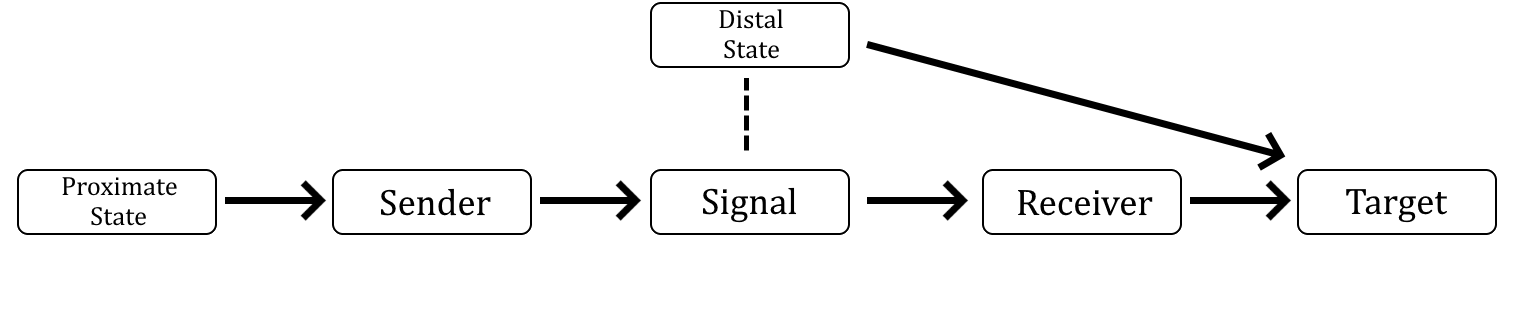
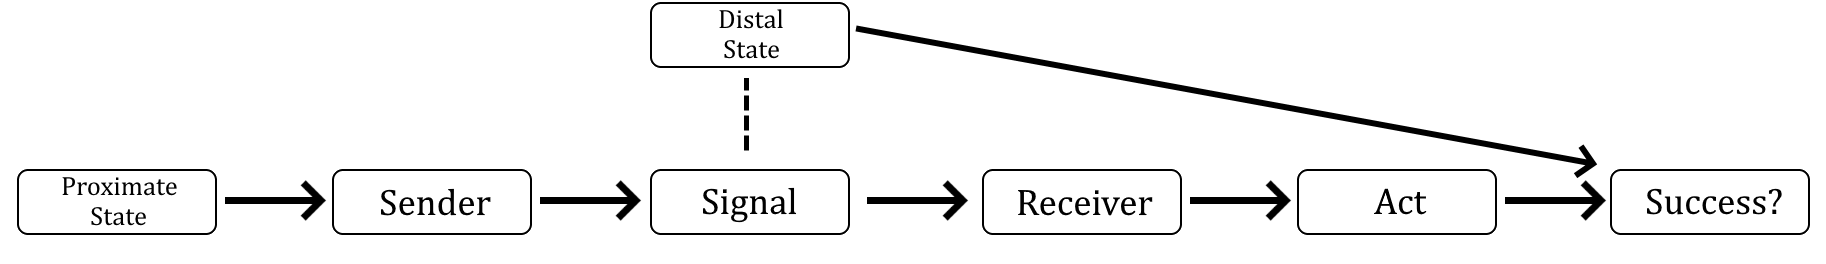
Tweaks from PDF draft notes. Closes #17, #18.

diff --git a/tex_agnostic.tex b/tex_agnostic.tex
@@ -113,6 +113,7 @@ Philosophy has understood information theory as a mostly definitional effort: fo
 
 \noindent Let me lay out my suspicions clearly: I suspect that philosophers move from \ami{} to the intermediate claim \ait{} by employing the term `Shannon information' to mean both `mutual information' and `all of the tools and concepts available to information theory'.
 I further suspect that philosophers move from \ait{} to \act{} by treating information theory and communication theory as identical.
+Take these moves in turn.
 
 `Shannon information' is given diverse definitions in philosophy (table \ref{tab:shannon}).
 By invoking it, demonstrably true claims about mutual information can be interpreted as unsupported claims about information theory as a whole.
@@ -142,15 +143,15 @@ I want to mention three popular lines of thought in order to distinguish them fr
     \item Information theory cannot distinguish signals and cues, therefore informational measures are not the right way to naturalise semantic content \citep{lean2014shannon}; \citep[$\S$4]{hutto2013radicalizing} 
 \end{itemize}
 
-\noindent These three views share a premise: that the only tools available to information theory are mutual information and related measures.
-I reject the assumption that the only resources offered by Shannon's formal work to naturalist theories of representation are measures of correlational information.\footnote{\citet[$\S$5]{shea2018representation} discusses structural correspondence as a non-correlational source of semantic content, and suggests other possible sources \citep[p. 76 n. 1]{shea2018representation}. But he appears to share the premise that, among the tools devised by Shannon, measures of correlation are all that is relevant for naturalist representation.}
-The view I proposed in the section on Shannon's Warning implies:
+\noindent These three views share a premise: that the only way Shannon's formal work could contribute to naturalistic representation is via measures of correlation.\footnote{\citet[$\S$5]{shea2018representation} discusses structural correspondence as a non-correlational source of semantic content, and suggests other possible sources \citep[p. 76 n. 1]{shea2018representation}. But he appears to share the premise that, among the tools devised by Shannon, measures of correlation are all that is relevant for naturalist representation.}
+I reject this assumption.
+The view I propose in the section on Shannon's Warning implies:
 
 \begin{itemize}
     \item Regardless whether information theory can distinguish signals and cues, the semantic content of a signal is not defined in terms of measures of correlation.
 \end{itemize}
 
-\noindent This contradicts orthodoxy, but my point is that this particular orthodoxy was never well-motivated.
+\noindent This contradicts orthodoxy, but my point is that this particular orthodoxy, though tempting, is wrong-headed.
 
 Before moving on, I recognise that these four projects would be consistent with each other if only proponents agreed they meant different things by `semantic content'.
 The Skyrms-Isaac project is to assign to vehicles a formal object capturing their correlational relationships.
@@ -246,13 +247,13 @@ Of course, nothing prevents us applying Kelly's theorem to signals too.
 My claim is not that theorems about cues do not apply to signals, but that theorems about signals do not apply to cues.
 There is an asymmetry in the definition of signals and cues, and the two kinds of theorem are asymmetric in a way that reflects that.
 Any vehicle can be treated as a cue simply by failing to specify whether or not it was designed for communicative use.
-That is what Kelly's theorem does, in the guise of keeping the mutual information fixed and asking how the receiver can make use of it.
+That is what Kelly's theorem does, in the guise of keeping mutual information fixed and asking how the receiver can make use of it.
 (In fact Kelly's prose implies that the vehicle in question is a signal; close inspection reveals the theorem does not require it to be one.)
 The second and third theorems by contrast require that their vehicles be signals, because they assure a level of functional performance that is only available when the sender tunes the vehicle's production to the features of the channel.
 By definition, the second and third theorems cannot be applied to cues.
 
 Furthermore, these points are reflected in the mathematical formalism of each theorem.
-The second theorem discusses maximising the transmission rate of a channel by changing the encoding scheme thereby changing the distribution of input symbols.
+The second theorem discusses maximising the transmission rate of a channel by changing the encoding scheme, thereby changing the distribution of input symbols.
 This can be written formally as $\max_{p(x)}I(X;Y)$.
 In this set-up, $X$ and $Y$ are causally connected at either end of a signalling channel.
 In contrast, Kelly's theorem keeps $I(X;Y)$ fixed and assumes nothing about the causal connection between $X$ and $Y$.
@@ -275,7 +276,7 @@ But the sceptic knows that $\max_{p(x)}I(X;Y)$ is the \textbf{capacity} of the c
 The capacity is defined only in terms of the signal before noise ($X$) and the signal after noise ($Y$); it is oblivious to the source and target strings -- oblivious to what the signal is actually about.
 If the second theorem and the channel capacity it defines are agnostic to the content of signals, is not the sceptic justified in asserting that the definition of semantic content must be found elsewhere than communication theory?
 \citet[344]{dennett1983intentional} seemed to be making this point when he distinguished between the ``\textit{capacity} of information-transmission and information-storage vehicles'' and their contents, stating that Shannon's theory deals only with capacity.
-More recently he presses the point:
+More recently he reasserts the claim:
 
 \begin{myquote}
 Shannon devised a way of \textit{measuring} information, independently of what the information was \textit{about}, rather like measuring \textit{volume} of liquid, independently of which liquid was being measured. (Imagine someone bragging about owning lots of quarts and gallons and not having an answer when asked, ``Quarts of what -- paint, wine, milk, gasoline?'')
@@ -290,7 +291,7 @@ Before responding, I accept that one of the premises of the sceptical riposte is
 \cia{}: Channel capacity can be measured without specifying the contents of signals transmitted through the channel.
 \end{myquote}
 
-\noindent Channels, characterised by the conditional distribution of output symbols given input symbols $p(y|x)$, are general-purpose in the sense that the outcomes of any source can be encoded by the set of input symbols $X$.
+\noindent Channels, characterised by the conditional distribution of signals-after-noise given signals-before-noise $p(y|x)$, are general-purpose in the sense that the outcomes of any source can be encoded by the set of code symbols $X$.
 Storage devices like hard drives and transmission media like fibre-optic cables can be assigned measures of capacity without regard to what they are storing or transmitting.
 Any channel can in principle be used to communicate anything.
 The honeybee waggle dance could be used to communicate military instructions if the field commander sending the message had sufficiently fine-grained control over the placement of food sources in the bees' locale.
@@ -301,7 +302,7 @@ Signals in the central model (for example) do have content as soon as a source a
 If an army managed to employ the waggle dance to transmit military instructions, each dance would gain a specific instruction as its one of its semantic contents in accordance with the code devised ahead of time by the human communicators.
 As discussed in the section on Shannon's Warning, communication theory and teleosemantics both deliver this result.
 That a channel can be used to transmit anything does not mean communication theory remains forever agnostic about what is actually being transmitted in a given circumstance.
-In terms of Dennett's analogy, the theory both measures the volume of a liquid and tells you which liquid is being measured.
+In terms of Dennett's analogy, the theory both measures the volume of a liquid and tells you what liquid is being measured.
 Dennett really does appear to be saying that communication theory (or information theory, or ``Shannon-Weaver theory'') involves only measures like mutual information and channel capacity.
 If he means to say this, he is wrong.
 

diff --git a/tex_warning.tex b/tex_warning.tex
@@ -233,7 +233,7 @@ The specific mapping from signal to source -- the `semantics' of the signalling 
 
 Teleosemantics puts theoretical legs under this intuition.
 The central model (figure \ref{fig:central}) is a special case of the basic teleosemantic model (figure \ref{fig:teleo}; here and throughout I refer to Millikan's \parencite*[$\S$6]{millikan2004varieties} teleosemantic theory).
-Teleosemantics attributes semantic content to signals when they are intermediaries between cooperating senders and receivers.
+Teleosemantics attributes semantic content to signals when they are intermediaries between cooperating senders and receivers, such that receivers condition their behaviour on the form of the intermediary.
 Senders and receivers cooperate when they share a proper function, an outcome they have been designed to bring about.
 The content of a signal is the state of affairs that, together with the receiver's response to the signal, produces outcomes that satisfy the sender-receiver partnership's shared proper function.
 In figure \ref{fig:teleo} a distal state sits causally upstream of a target that the receiver has causal influence over.
@@ -246,6 +246,8 @@ Signalling games typically collapse those states too (figure \ref{fig:sr}).
 Applying the basic teleosemantic model to the central model, the encoder is a sender and the decoder is a receiver.
 Sender and receiver share a proper function as a consequence of design: to reconstruct the source string.
 The basic teleosemantic model does not include noise, but adding a noise variable would not affect the definition of semantic content.
+The basic teleosemantic model makes explicit the fact that acts are judged successful or unsuccessful depending on a distal state.
+This `Success?' variable, and the causal link to it from the relevant distal state, is omitted from figures \ref{fig:central} and \ref{fig:sr}.
 
 \input{fig_sr}
 
@@ -258,7 +260,7 @@ Each time the coin is tossed at the source, the eventual task of the decoder is 
 Suppose the sender transmits signals according to the code $H\rightarrow1,\ T\rightarrow0$, and the result of three coin tosses is $H, T, H$.
 Then, assuming no noise, when the decoder receives the signal $101$ it correctly produces the sequence $HTH$.
 Communication is successful because the reproduced string is identical to the original sequence of outcomes.
-The signal $101$ represents the source sequence $HTH$, and that is how the decoder successfully reproduces it.\footnote{The claim is not that the content of the signal explains how the receiver produces the string `HTH' at the target. The claim is that the content of the signal explains how the receiver successfully reproduces the source string at the target. In general, teleosemantics claims not that content explains behaviour, but that content explains success.}
+The signal $101$ represents the source sequence $HTH$, and that is how the decoder successfully reproduces it.\footnote{The claim is not that the content of the signal explains how the receiver produces the string `HTH' at the target. The claim is that the content of the signal explains how the receiver successfully reproduces the source string at the target. In general, teleosemantics claims not that content explains behaviour, but that content explains success. Figure \ref{fig:teleo} makes that explicit by distinguishing the Act variable from the Success? variable.}
 
 It might be objected that this is a very thin notion of `representation'.
 Surely philosophers who aim to give a naturalist account of representation are looking for something much richer than the relationship between simple electronic signals and their signifieds?
@@ -315,6 +317,7 @@ This cashes out the pretheoretic usage of terms like `represent', `describe' and
 Encoding, the sceptic will notice, is the transformation of symbols from one lexicon into another.
 Since I am claiming it is the encoding scheme that confers content, my position appears to entail that any process by which symbols of one lexicon are converted into symbols of another confers content.
 That is a big problem: it is very implausible that manipulating symbols from lexicon $L_1$ into lexicon $L_2$ bestows the symbols of $L_2$ with the content `symbol such-and-such from $L_1$'.
+Symbol manipulation is a matter of syntax, not semantics.
 If that is all that is happening in an encoding scheme, then it is very implausible that central model signals really do have the contents I ascribe.
 
 To respond, I accept that the initial premise is true:
@@ -324,15 +327,16 @@ To respond, I accept that the initial premise is true:
 \end{myquote}
 
 \noindent I think we can all agree on \smi{}.
-Teleosemantics is liberal, but it is not that liberal.
+Teleosemantics is liberal, but not that liberal.
 The question is whether symbol manipulation is all there is to encoding.
 While the term `encoding' might be used in different ways in different branches of science and philosophy, including in ways that imply only symbol manipulation, I contend that its use in communication theory implies something stronger.
 Encoded strings are produced as part of a sender-receiver system, in order to be decoded during performance of a joint function.
-That makes all the difference, because it makes the whole system fit the teleosemantic template.
-Shuffling symbols does not bestow content, only joint design of sender and receiver bestows content.
+That makes a difference, because it ensures the system fits the teleosemantic template.
+Shuffling symbols does not bestow content, but joint design of sender and receiver does.
 
-Furthermore, although I have focused on symbols in the exposition so far, it turns out that source outcomes need not be symbols at all. 
-And the actions of the receiver need not be exact duplicates of the outputs at the source; they need only be actions that, combined with source outcomes, yield a cost function for the system as a whole.
+Furthermore, although I have focused on symbols in the exposition so far, it turns out that source outcomes need not be symbols at all.
+They could be dance steps, military manoeuvres, restaurant locations; anything over which a probability distribution can be defined.
+It also turns out that the actions of the receiver need not be exact duplicates of the outcomes at the source; they need only be actions that, combined with source outcomes, yield a cost function for the system as a whole.
 If this sounds like the sender-receiver framework associated with \citet{skyrms2010signals} and \citet{lewis1969convention}, that's because it is formally equivalent to it \citep{martinez2019deception}.
 Source and target need not be symbols.
 They are just commonly described as such because that is part of the typical use case of communication theory.

diff --git a/fig_sr.tex b/fig_sr.tex
@@ -2,11 +2,13 @@
     {img_srBasic} % filename
     {0.9} % width
     {fig:sr} % label
-    {A signalling game.
-    In cooperative settings, \textbf{Sender} and \textbf{Receiver} must collaborate to achieve a shared payoff at the \textbf{Target}.
-    Whether the receiver obtains a payoff depends on its own act (node not shown) and the value of \textbf{State}.
+    {\textbf{A signalling game}.
+    In cooperative settings, \textbf{Sender} and \textbf{Receiver} must collaborate to achieve a shared payoff.
+    The payoff depends on the receiver's \textbf{Act} and the \textbf{State} observed by the sender.
     Since only the sender has access to the state, it must guide the receiver with a \textbf{Signal}.
     Here, the state plays both roles that teleosemantics distinguishes as proximate and distal states (see figure \ref{fig:teleo}): it is a proximate state because the sender conditions its choice of signal on it, and it is a distal state because the value of the target (the payoff) depends on it.
+    Signalling games include payoff matrices that yield values from combinations of states and acts; these could instead be represented by a downstream Success? variable as in figure \ref{fig:teleo}.
+    Therefore, teleosemantics says that the semantic content of a signal is the identity of the corresponding state.
     See also \citet{martinez2019deception} for the close formal links between communication theory and signalling games.
     } % caption
 \end{myfig}

diff --git a/tex_conclusion.tex b/tex_conclusion.tex
@@ -21,6 +21,7 @@ It already does.
 \citet{sims2016ratedistortion} describes human performance in perceptual tasks in terms of a trade-off between the capacity of perceptual information transmission and the cost of perceptual error.
 This is the same trade-off at the heart of the third theorem of communication theory, which launched an important subdiscipline called \textbf{rate-distortion theory}.
 Perceptual information rate can be increased, lowering the chance of perceptual error, by expending more metabolic resources.
+This might occur over evolutionary time, whereby developmental processes devoting more resources to improving perceptual capacity result in more successful phenotypes.
 Whether it is worth investing resources to increase perceptual accuracy depends on the costs of inaccuracy.
 Sims derives a cost function assumed to be operative in human subjects from experiments that push the limits of their perceptual capacity.
 The pattern of errors made by subjects reveals a consistent cost function used across experimental conditions \citep[188]{sims2016ratedistortion}.

diff --git a/fig_teleo.tex b/fig_teleo.tex
@@ -2,10 +2,10 @@
     {img_teleoBasic} % filename
     {0.9} % width
     {fig:teleo} % label
-    {The basic teleosemantic model. 
+    {\textbf{The basic teleosemantic model}. 
     A \textbf{Sender} and \textbf{Receiver} have a joint goal they must achieve. 
-    This is modelled as the requirement of setting a \textbf{Target} variable to a certain value. 
-    The receiver can exercise some control, but a \textbf{Distal State} also has causal influence over the target. 
+    This is modelled as the requirement of setting a \textbf{Success?} variable to a certain value. 
+    The receiver can exercise some control by \textbf{Act}ing, but a \textbf{Distal State} also has causal influence over the target. 
     The sender can produce a \textbf{Signal} that bears an exploitable relation to the distal state.
     When the receiver can condition its behaviour on the signal and achieve greater success than otherwise, teleosemantics claims that explaining this improvement requires appealing to a relation between signal and distal state.
     This relation is semantic content.

diff --git a/fig_central.tex b/fig_central.tex
@@ -2,7 +2,7 @@
     {img_centralModel} % filename
     {0.9} % width
     {fig:central} % label
-    {The central model of communication theory \citep[adapted from][p. 381 fig. 1]{shannon1948mathematicalc}. 
+    {\textbf{The central model of communication theory} \citep[adapted from][p. 381 fig. 1]{shannon1948mathematicalc}. 
     The \textbf{Source} is a process that generates strings from a lexicon, within which symbols have a certain probability of appearing. 
     The \textbf{Encoder} converts strings of the source lexicon into strings of the code lexicon. 
     The \textbf{Channel} is the medium through which code strings are transmitted. 

diff --git a/fig_info_theory.tex b/fig_info_theory.tex
@@ -2,7 +2,7 @@
     {img_info_theory} % filename
     {0.6} % width
     {fig:info_theory} % label
-    {The relationship between communication theory, information theory, and other mathematical and scientific endeavours.
+    {\textbf{The relationship between communication theory, information theory, and other mathematical and scientific endeavours}.
     From \citet[p. 2, fig. 1.1]{cover2006elements}.
     } % caption
 \end{myfig}
